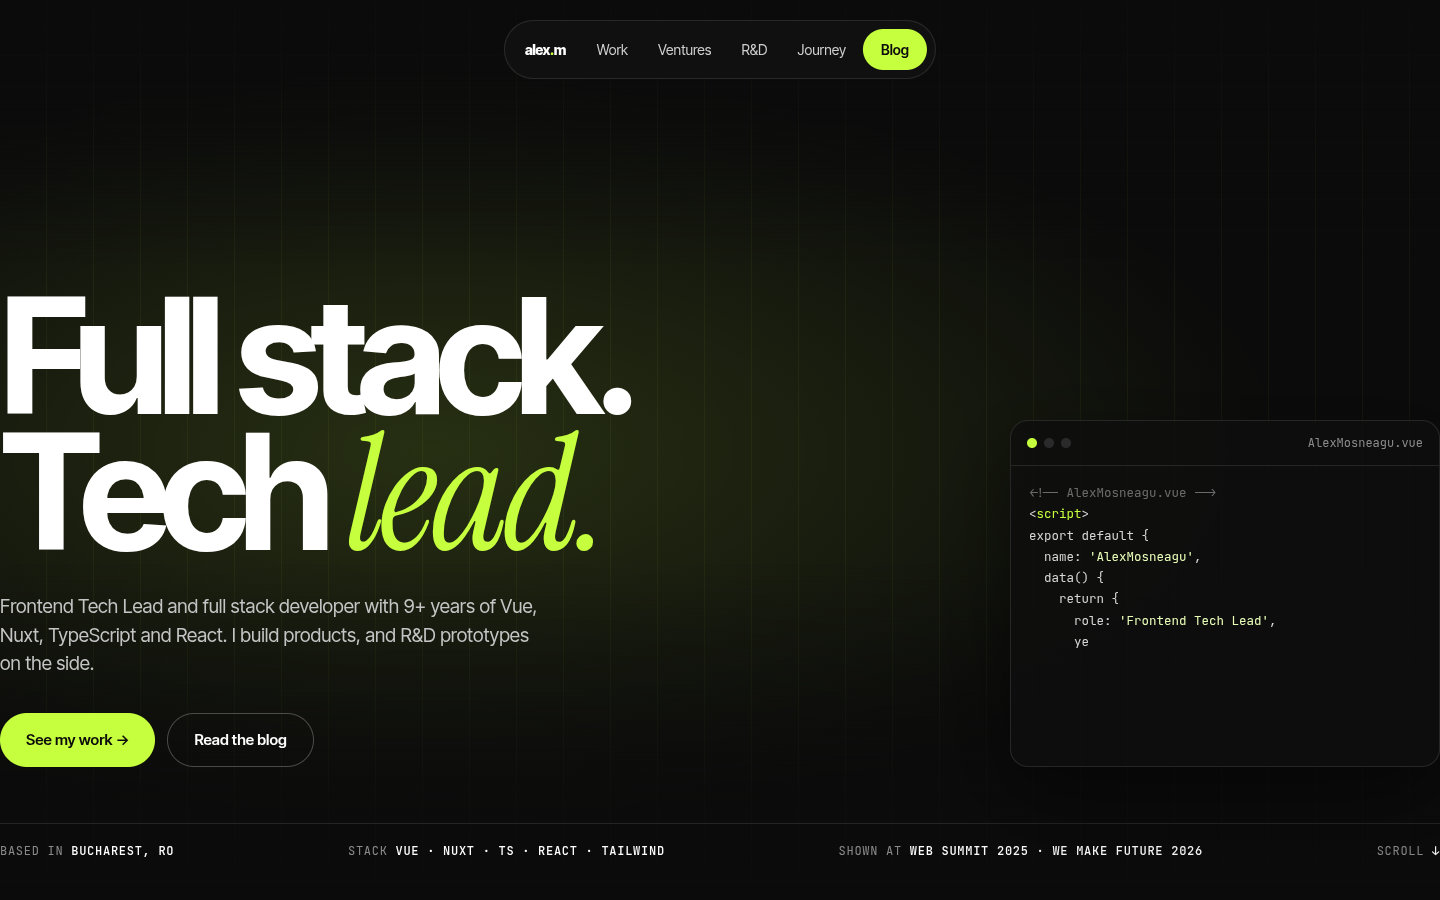
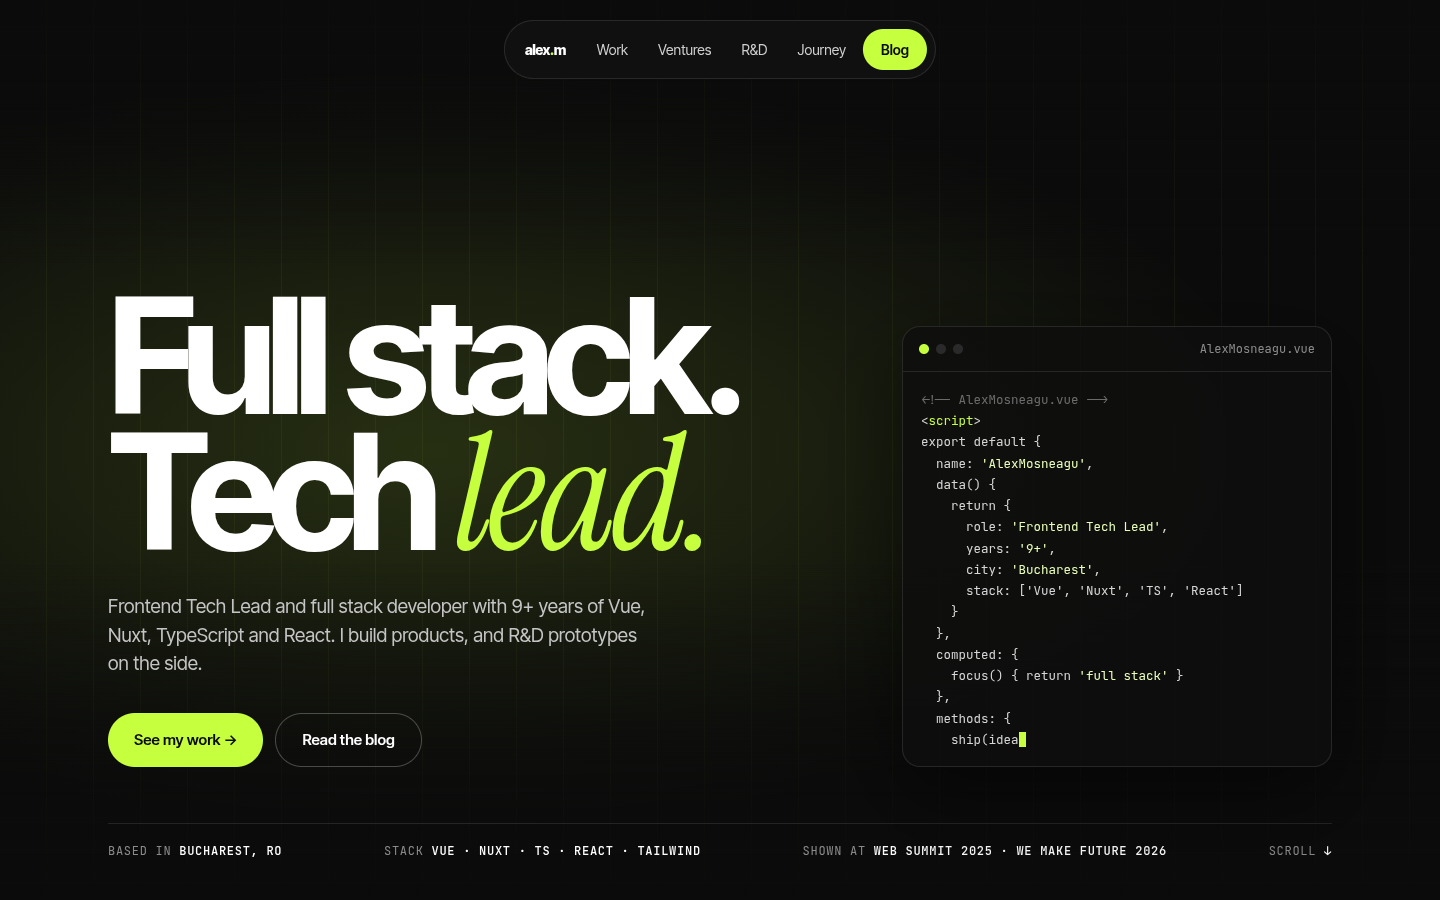
Fix horizontal padding and improve screenshot capture
- Add global .wrap class with proper padding (48px desktop, 20px mobile)
- Increase screenshot wait time to 3.5s for typing animation completion
- Ensure all screenshot paths use docs/screenshots/ directory
- Max-width 1320px with centered container matching mockup
- All checks still pass (lint, typecheck, test, generate)

diff --git a/scripts/capture-screenshots.js b/scripts/capture-screenshots.js
@@ -19,14 +19,15 @@ async function capture() {
     await heroPage.goto(`${baseUrl}/?static`, { waitUntil: 'networkidle' })
     await heroPage.evaluate(() => document.fonts.ready)
     await heroPage.waitForSelector('body[data-gl=ok]', { state: 'attached', timeout: 20000 }).catch(() => {})
-    await heroPage.waitForTimeout(1500)
-    await heroPage.screenshot({ path: 'screenshot-desktop-hero.png' })
+    // Wait longer for typing animation to complete
+    await heroPage.waitForTimeout(3500)
+    await heroPage.screenshot({ path: 'docs/screenshots/screenshot-desktop-hero.png' })
     console.log('✓ Desktop hero captured')
 
     // Desktop full page
     const height = await heroPage.evaluate(() => document.documentElement.scrollHeight)
     await heroPage.setViewportSize({ width: 1440, height })
-    await heroPage.screenshot({ path: 'screenshot-desktop-full.png', fullPage: true })
+    await heroPage.screenshot({ path: 'docs/screenshots/screenshot-desktop-full.png', fullPage: true })
     console.log('✓ Desktop full page captured')
     await heroPage.close()
 

diff --git a/assets/css/main.css b/assets/css/main.css
@@ -47,6 +47,19 @@ em {
   }
 }
 
+/* Global container with padding */
+.wrap {
+  max-width: 1320px;
+  margin: 0 auto;
+  padding: 0 48px;
+}
+
+@media (max-width: 768px) {
+  .wrap {
+    padding: 0 20px;
+  }
+}
+
 /* Scrollbar styling */
 ::-webkit-scrollbar {
   height: 8px;
